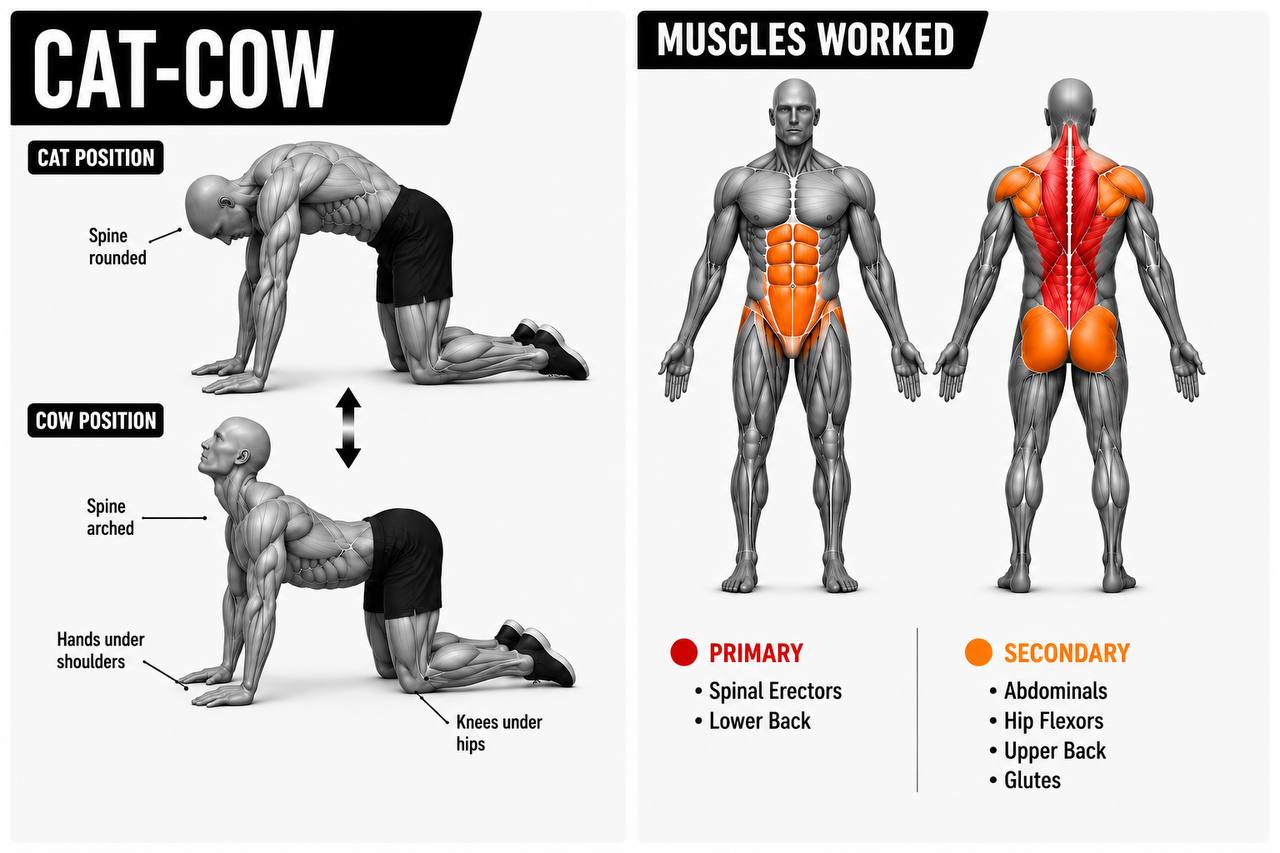
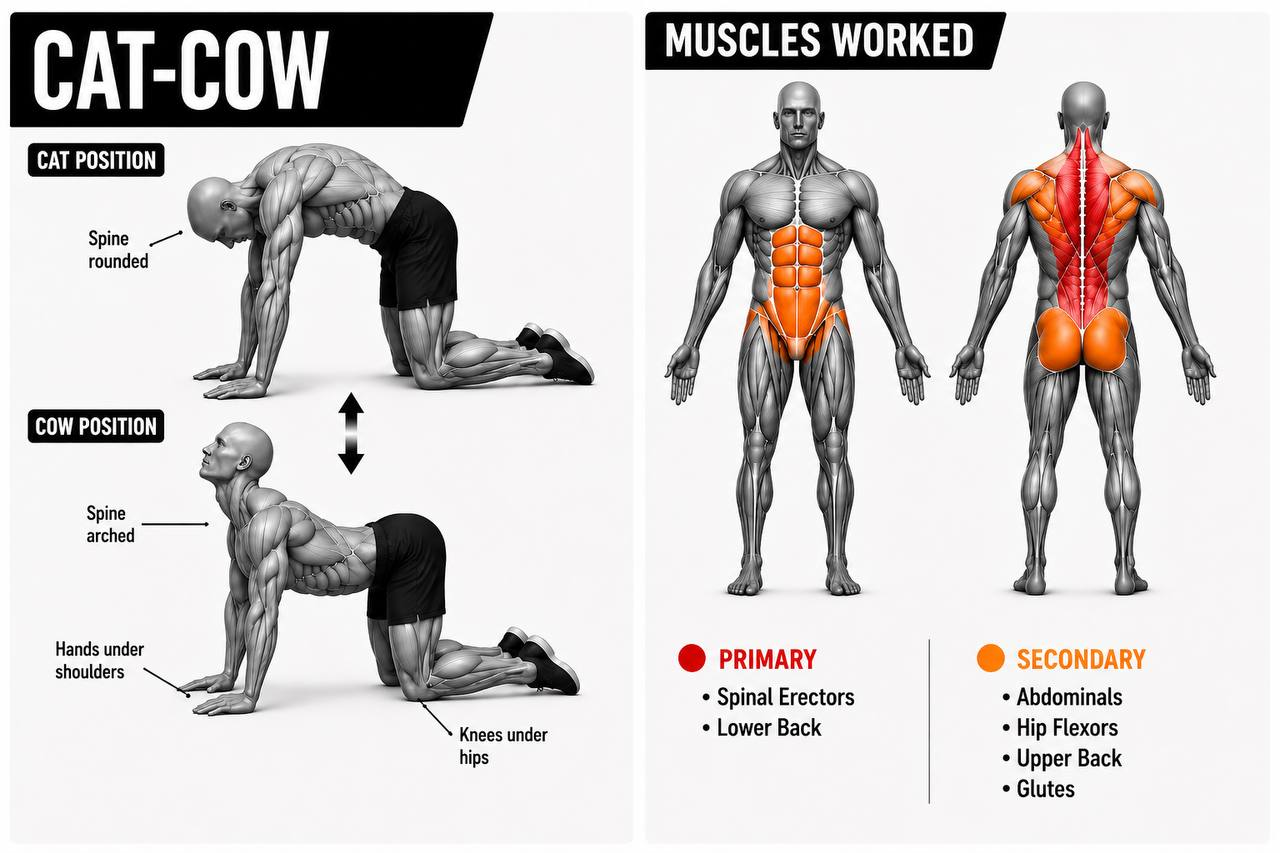
feat: add Cat-Cow exercise — image, detail data, timer plan, library + build-session entry

diff --git a/app/exercise/[id].tsx b/app/exercise/[id].tsx
@@ -22,6 +22,7 @@ const EXERCISE_IMAGES: Record<string, any> = {
   'superman': require('@/assets/exercises/superman.png'),
   'push-up-hold': require('@/assets/exercises/push-up-hold.png'),
   'horse-stance': require('@/assets/exercises/horse-stance.png'),
+  'cat-cow': require('@/assets/exercises/cat-cow.jpg'),
 };
 
 interface ExerciseData {
@@ -161,6 +162,33 @@ const DATA: Record<string, ExerciseData> = {
     ],
     cue: 'Spread the floor apart with your feet.',
     holds: { beginner: '30 sec', intermediate: '90 sec', advanced: '180+ sec' },
+  },
+  'cat-cow': {
+    name: 'Cat-Cow',
+    emoji: '🐈',
+    diagram: [
+      { label: 'Spine rounded', detail: 'upward (Cat)' },
+      { label: 'Spine arched', detail: 'downward (Cow)' },
+      { label: 'Hands under shoulders', detail: 'knees under hips' },
+    ],
+    primary: ['Spinal Erectors', 'Lower Back'],
+    secondary: ['Abdominals', 'Hip Flexors', 'Upper Back', 'Glutes'],
+    instructions: [
+      'Start on all fours with hands under shoulders and knees under hips.',
+      'Exhale and round your spine upward, tucking your chin toward your chest (Cat Position).',
+      'Inhale and slowly arch your back while lifting your chest and gaze (Cow Position).',
+      'Move smoothly between both positions.',
+      'Synchronize each movement with your breathing.',
+    ],
+    mistakes: [
+      'Moving too fast',
+      'Holding your breath',
+      'Not using full spinal range of motion',
+      'Locking elbows',
+      'Shrugging shoulders toward ears',
+    ],
+    cue: 'Move with your breath, not with momentum.',
+    holds: { beginner: '30 sec', intermediate: '60 sec', advanced: '120+ sec' },
   },
 };
 

diff --git a/app/(tabs)/library.tsx b/app/(tabs)/library.tsx
@@ -32,9 +32,10 @@ const EXERCISES = [
   { id: 'superman', name: 'Superman Hold', muscles: 'Lower Back, Glutes', difficulty: 'Beginner', category: 'Posterior Chain', emoji: '🦸' },
   { id: 'push-up-hold', name: 'Mid-Range Push-Up Hold', muscles: 'Chest, Triceps', difficulty: 'Intermediate', category: 'Upper Body', emoji: '💪' },
   { id: 'horse-stance', name: 'Horse Stance', muscles: 'Adductors, Quads', difficulty: 'Intermediate', category: 'Legs', emoji: '🐴' },
+  { id: 'cat-cow', name: 'Cat-Cow', muscles: 'Spine, Core', difficulty: 'Beginner', category: 'Mobility', emoji: '🐈' },
 ];
 
-const CATEGORIES = ['All', 'Legs', 'Core', 'Upper Body', 'Posterior Chain'];
+const CATEGORIES = ['All', 'Legs', 'Core', 'Upper Body', 'Posterior Chain', 'Mobility'];
 
 export default function LibraryScreen() {
   const router = useRouter();

diff --git a/app/workout/[id].tsx b/app/workout/[id].tsx
@@ -11,6 +11,7 @@ const EXERCISE_IMAGES: Record<string, any> = {
   'superman': require('@/assets/exercises/superman.png'),
   'push-up-hold': require('@/assets/exercises/push-up-hold.png'),
   'horse-stance': require('@/assets/exercises/horse-stance.png'),
+  'cat-cow': require('@/assets/exercises/cat-cow.jpg'),
 };
 
 function speak(text: string, onEnd?: () => void) {
@@ -42,6 +43,7 @@ const PLANS: Record<string, ExercisePlan[]> = {
   'superman': [{ id: 'superman', name: 'Superman Hold', emoji: '🦸', sets: 3, holdSeconds: 30 }],
   'push-up-hold': [{ id: 'push-up-hold', name: 'Mid-Range Push-Up Hold', emoji: '💪', sets: 3, holdSeconds: 30 }],
   'horse-stance': [{ id: 'horse-stance', name: 'Horse Stance', emoji: '🐴', sets: 3, holdSeconds: 60 }],
+  'cat-cow': [{ id: 'cat-cow', name: 'Cat-Cow', emoji: '🐈', sets: 2, holdSeconds: 60 }],
 };
 
 const DEFAULT_PLAN: ExercisePlan[] = [

diff --git a/app/build-session.tsx b/app/build-session.tsx
@@ -18,6 +18,7 @@ const EXERCISES = [
   { id: 'superman', name: 'Superman Hold', emoji: '🦸' },
   { id: 'push-up-hold', name: 'Mid-Range Push-Up Hold', emoji: '💪' },
   { id: 'horse-stance', name: 'Horse Stance', emoji: '🐴' },
+  { id: 'cat-cow', name: 'Cat-Cow', emoji: '🐈' },
 ];
 
 export default function BuildSessionScreen() {